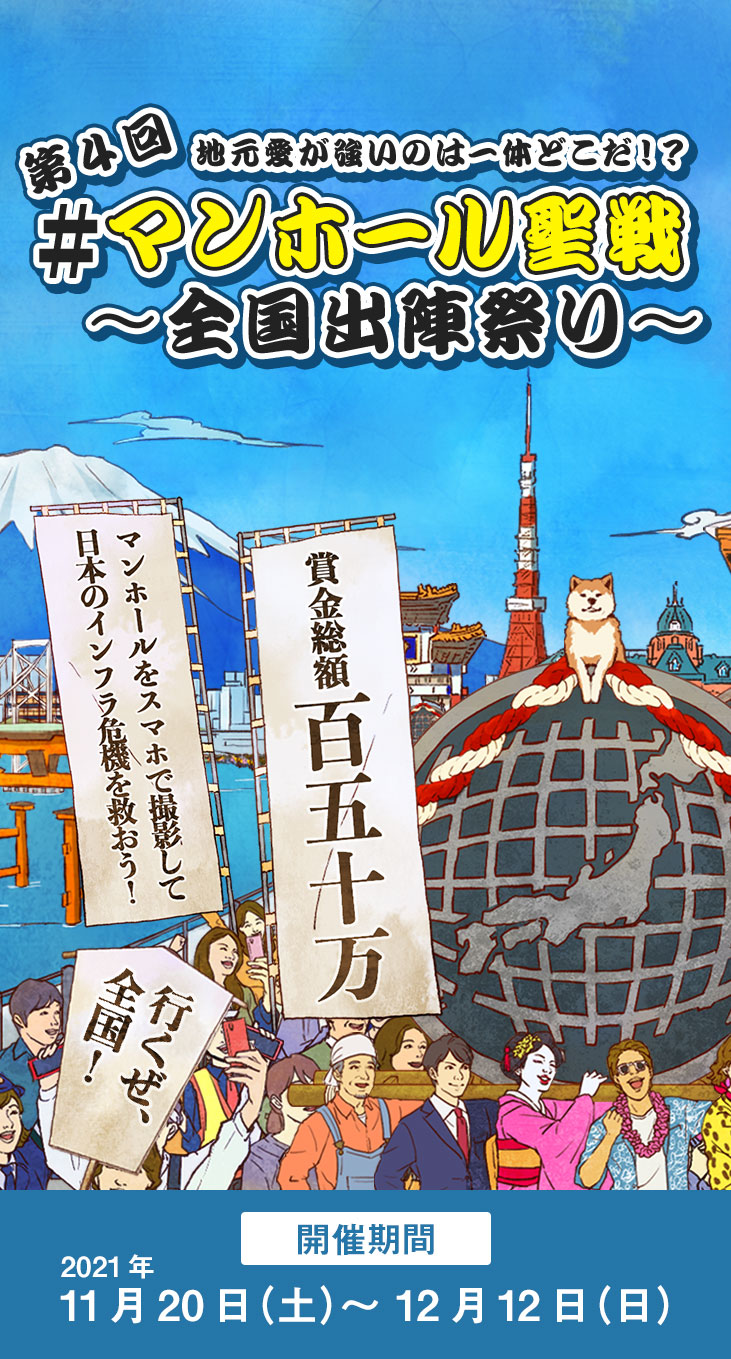
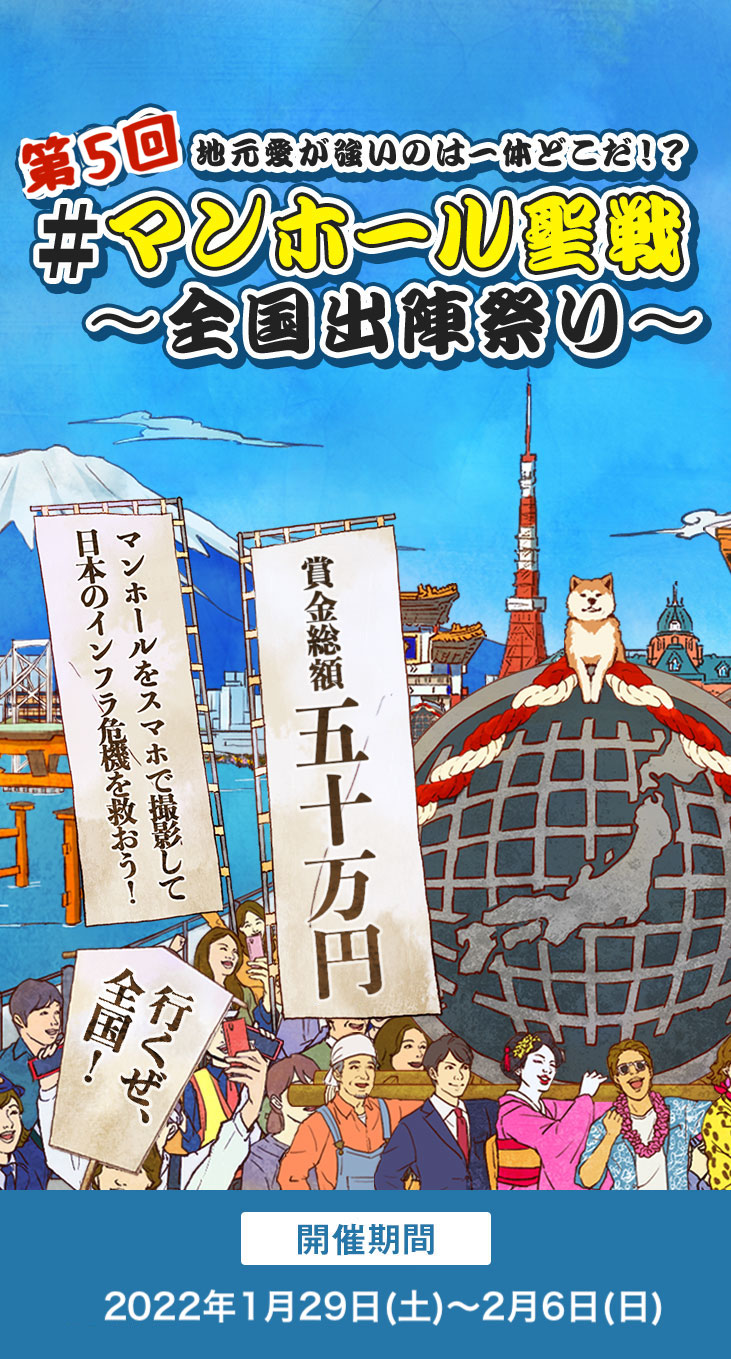
modify
賞金の下の注意書き
・地図上に載っていないマンホールが対象、と書いているが、実際にはすでに他の人に撮られたことのあるグレーマンホールを投稿した場合も対象となるので、そういった内容に修正 or 記載自体必要なさそうなら削除
スマホ用トップ画面
・以前の画像のままなので、今回のものに修正

Changed region(s): [[0.0903, 0.9272, 0.933, 0.989], [0.3912, 0.4018, 0.5417, 0.7417], [0.0301, 0.0618, 0.2709, 0.1545]]

diff --git a/docs/index.html b/docs/index.html
@@ -475,7 +475,7 @@ height="0" width="0" style="display:none;visibility:hidden"></iframe></noscript>
 							<p class="ev_text">
 								イベント：第5回　#マンホール聖戦〜全国出陣祭〜2022<br>
 開催期間：2022年1月29日(土)〜2月6日(日)<br>
-<a href="https://twitter.com/Guardians__City/status/1485810908676988931">（お詫び）当初1月22日（土）の開催予定でしたが、22日当日に技術障害があり、1週間延期させていただきました。参加予定であった皆様にはご迷惑をおかけしまして大変申し訳ございません。</a>
+<a href="https://twitter.com/Guardians__City/status/1485810908676988931">（お詫び）当初1月22日（土）の開催予定でしたが、1月22日当日に技術障害があり、1週間延期させていただきました。参加予定であった皆様にはご迷惑をおかけしまして大変申し訳ございません。</a>
 
 							</p>
 
@@ -824,7 +824,6 @@ height="0" width="0" style="display:none;visibility:hidden"></iframe></noscript>
 <h4>注意事項</h4>
 
 <p>
-  ・投稿の定義は、まだゲーム地図上に載っていないマンホールや地図上にあるまだ撮影されていない新規のマンホールの撮影・投稿が対象となり、「下水マンホール」とレビューされた際に1カウントとなります。既に誰かが投稿済のマンホールは投稿カウント対象外となります。<br>
   ・賞金に関わる内容は、イベント開催期間の[2022年1月29日(土)〜2月6日(日)]が対象となります。<br>
   ・抽選以外の賞の集計は、各集計期間終了時点のアプリ内のランキングを元に選定されます。<br>
   ・受賞者へのご連絡は、ランキング集計後に運営局よりEmail・LINEまたはTwitterを通してご連絡差
